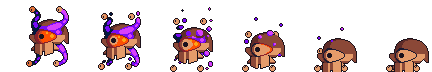
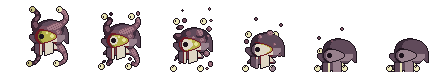
Beholden Watcher recoloured to the Shadowy Depths
Its tan head turns the bruised mauve flesh of the Depths' tentacle monsters,
its purple tentacles segmented flesh with suckers, its eye a sickly yellow-green
rimmed in vein red, its tentacle tips pale eyeballs and its jaw bone teeth on
dark gums. Its attacks and death match, the beam and ball volley glow the eye's
yellow.

Claude-Session: https://claude.ai/code/session_01SBD8k6fNuiYxY9JLG9nkkr

diff --git a/src/core/balance.ts b/src/core/balance.ts
@@ -1475,7 +1475,7 @@ export const ENEMIES: EnemyDef[] = [
   { id: 'pixieQueen', name: "Queen's Guard", area: 'glade', archetype: 'elemental', guardianOnly: true, hp: 1, speed: 0.6, gold: 1, spawn: 0, pack: [1, 1], radius: 16, material: 'regalEssence', unlock: Infinity, color: '#ff7ad8', shape: 'diamond', blurb: "The Pixie Queen's guard: the oldest toadstool in the Grove, grown big enough to walk, and it lets nothing past.", weak: ['void', 'decay'], resist: ['arcane', 'radiant'] },
   { id: 'skeletonKing', name: 'Undead Executioner', area: 'graveyard', archetype: 'undead', guardianOnly: true, hp: 1, speed: 0.6, gold: 1, spawn: 0, pack: [1, 1], radius: 20, material: 'calciumCrystal', unlock: Infinity, color: '#f0e8d0', shape: 'square', blurb: "A reaper bound to the Graveyard, drifting between the stones with its scythe, gathering what's owed.", weak: ['radiant', 'arcane'], resist: ['poison', 'decay', 'physical'] },
   { id: 'awokenLich', name: 'Awoken Lich', area: 'crypt', archetype: 'undead', guardianOnly: true, hp: 1, speed: 0.6, gold: 1, spawn: 0, pack: [1, 1], radius: 20, material: 'eldritchText', unlock: Infinity, color: '#8a5ac0', shape: 'hexagon', blurb: "The Crypt's oldest master, risen at last, and furious about it.", weak: ['radiant', 'physical'], resist: ['decay', 'void', 'frost'] },
-  { id: 'beholdenWatcher', name: 'Beholden Watcher', area: 'depths', archetype: 'monstrosity', guardianOnly: true, hp: 1, speed: 0.6, gold: 1, spawn: 0, pack: [1, 1], radius: 22, material: 'everwatchingEye', unlock: Infinity, color: '#c0a0e0', shape: 'circle', blurb: "A great eye ringed with smaller ones. Every one of them is looking at you.", weak: ['radiant', 'lightning'], resist: ['arcane', 'void', 'physical'] },
+  { id: 'beholdenWatcher', name: 'Beholden Watcher', area: 'depths', archetype: 'monstrosity', guardianOnly: true, hp: 1, speed: 0.6, gold: 1, spawn: 0, pack: [1, 1], radius: 22, material: 'everwatchingEye', unlock: Infinity, color: '#a07c88', shape: 'circle', blurb: "A great eye ringed with smaller ones. Every one of them is looking at you.", weak: ['radiant', 'lightning'], resist: ['arcane', 'void', 'physical'] },
   { id: 'demonLord', name: 'Demon Lord', area: 'caves', archetype: 'demon', guardianOnly: true, hp: 1, speed: 0.6, gold: 1, spawn: 0, pack: [1, 1], radius: 22, material: 'forsakenSoul', unlock: Infinity, color: '#c02a1a', shape: 'hexagon', blurb: "The master of the Ember Mines, wreathed in the souls it has taken.", weak: ['frost', 'radiant'], resist: ['fire', 'decay', 'physical'] },
   { id: 'koboldKing', name: 'Kobold King', area: 'mines', archetype: 'humanoid', guardianOnly: true, hp: 1, speed: 0.6, gold: 1, spawn: 0, pack: [1, 1], radius: 20, material: 'ore', unlock: Infinity, color: '#c0503a', shape: 'square', blurb: 'The kobolds\' king rides to war on a tusked boar, scythe-spear raised over the caverns he dug.', weak: ['fire', 'acid'], resist: ['physical', 'frost'] },
   { id: 'frostGargoyle', name: 'Frost Gargoyle', area: 'peaks', archetype: 'construct', guardianOnly: true, hp: 1, speed: 0.6, gold: 1, spawn: 0, pack: [1, 1], radius: 20, material: 'ecto', unlock: Infinity, color: '#8fd0ff', shape: 'diamond', blurb: 'Carved to watch the high passes, frozen solid, and long since woken by the storm.', weak: ['radiant', 'arcane'], resist: ['physical'] },
